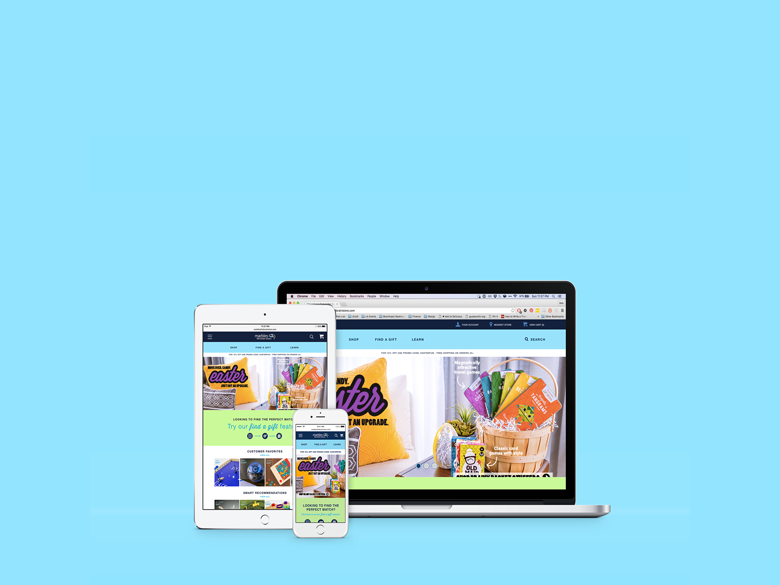
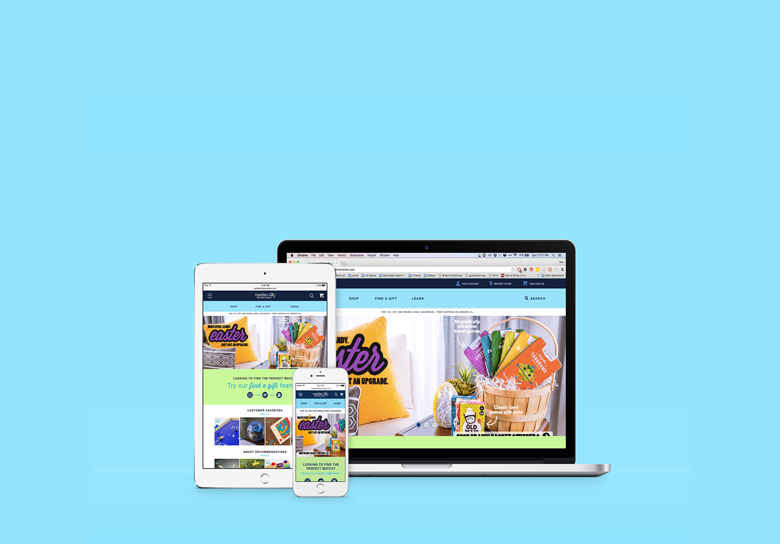
site updates

Changed region(s): [[0.2462, 0.4375, 0.8, 0.9375]]

diff --git a/portfolio/marbles-the-brain-store.html b/portfolio/marbles-the-brain-store.html
@@ -2,7 +2,7 @@
 layout: default
 ---
 
-<header class="page-header">
+<header class="page-header marbles-header">
     <div class="background-image-holder parallax-background hidden-xs">
         <img class="background-image" alt="Background Image" src="{{ '/assets/images/marbles/P2-All-Devices-Header_2.png' | prepend: site.baseurl }}">
     </div>

diff --git a/_sass/_style.scss b/_sass/_style.scss
@@ -23,11 +23,13 @@
 }
 
 .marbles-header {
-    max-height: 250px;
-    background-position: 0% 100% !important;
-    height: 500px;
+    height: 40vh !important;
 
     @include breakpoint(medium) {
-        max-height: 100%;
+        height: 50vh !important;
+    }
+
+    @include breakpoint(large) {
+        height: 75vh !important;
     }
 }
